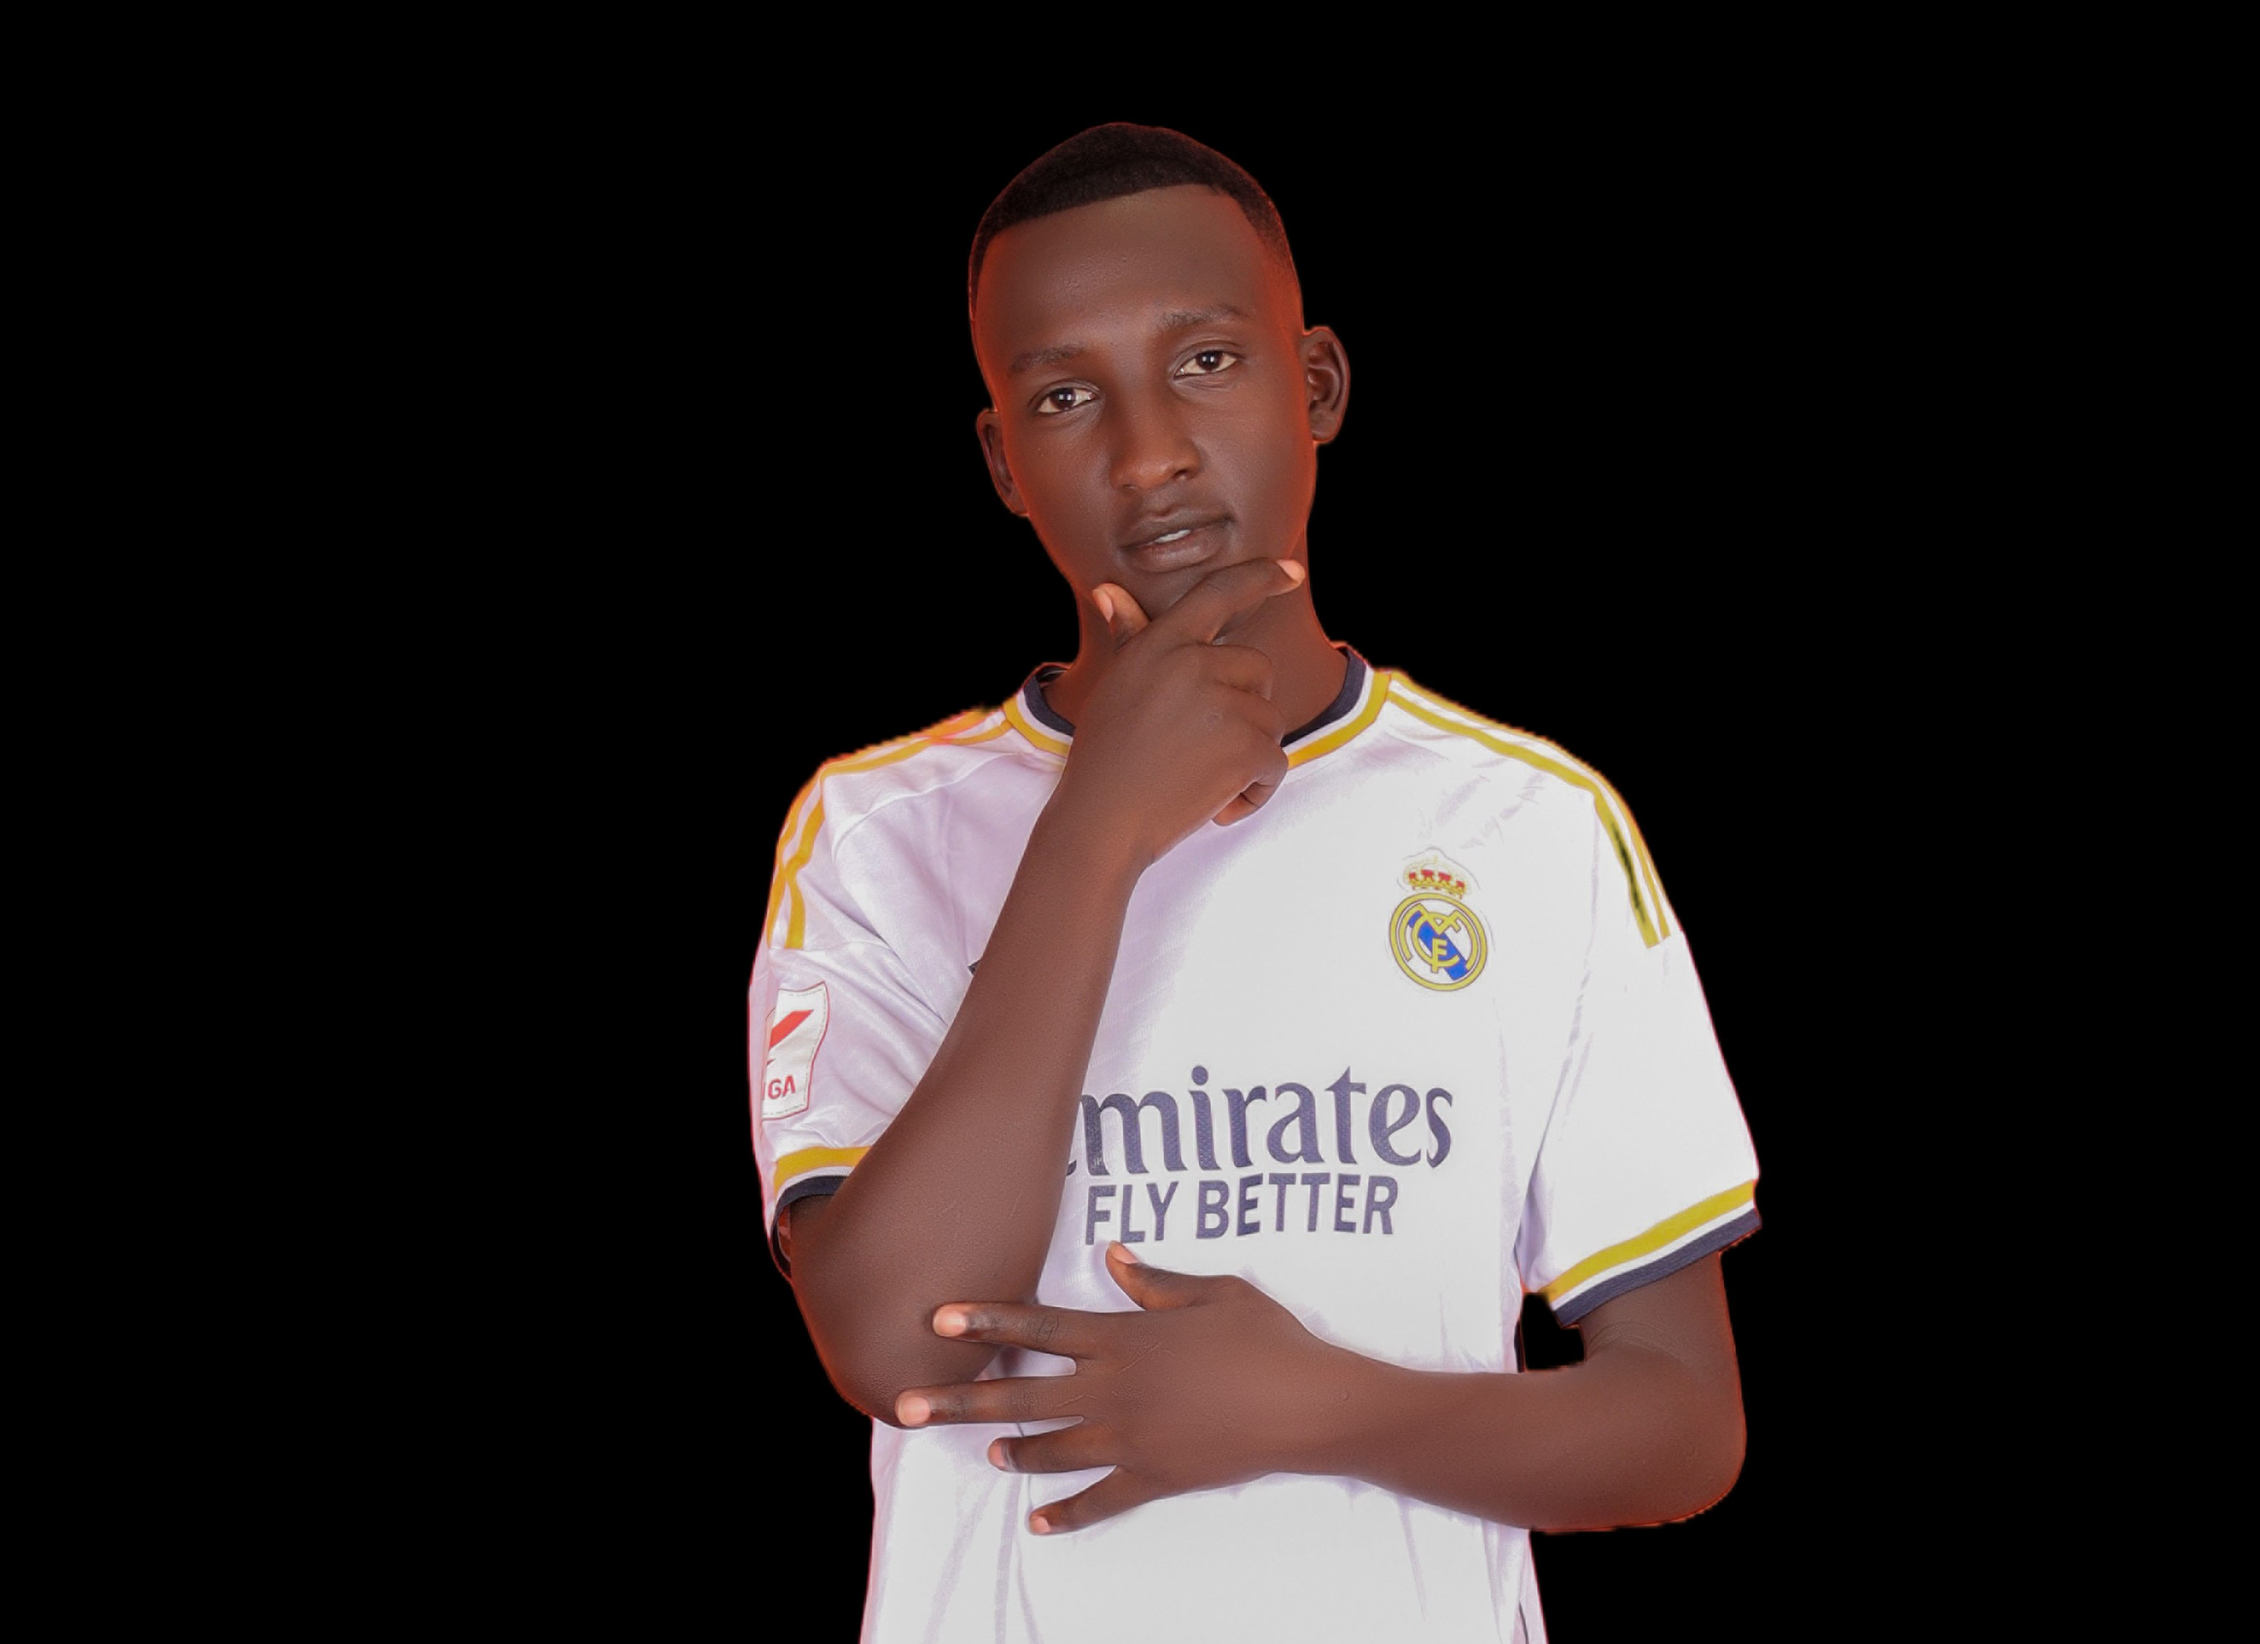
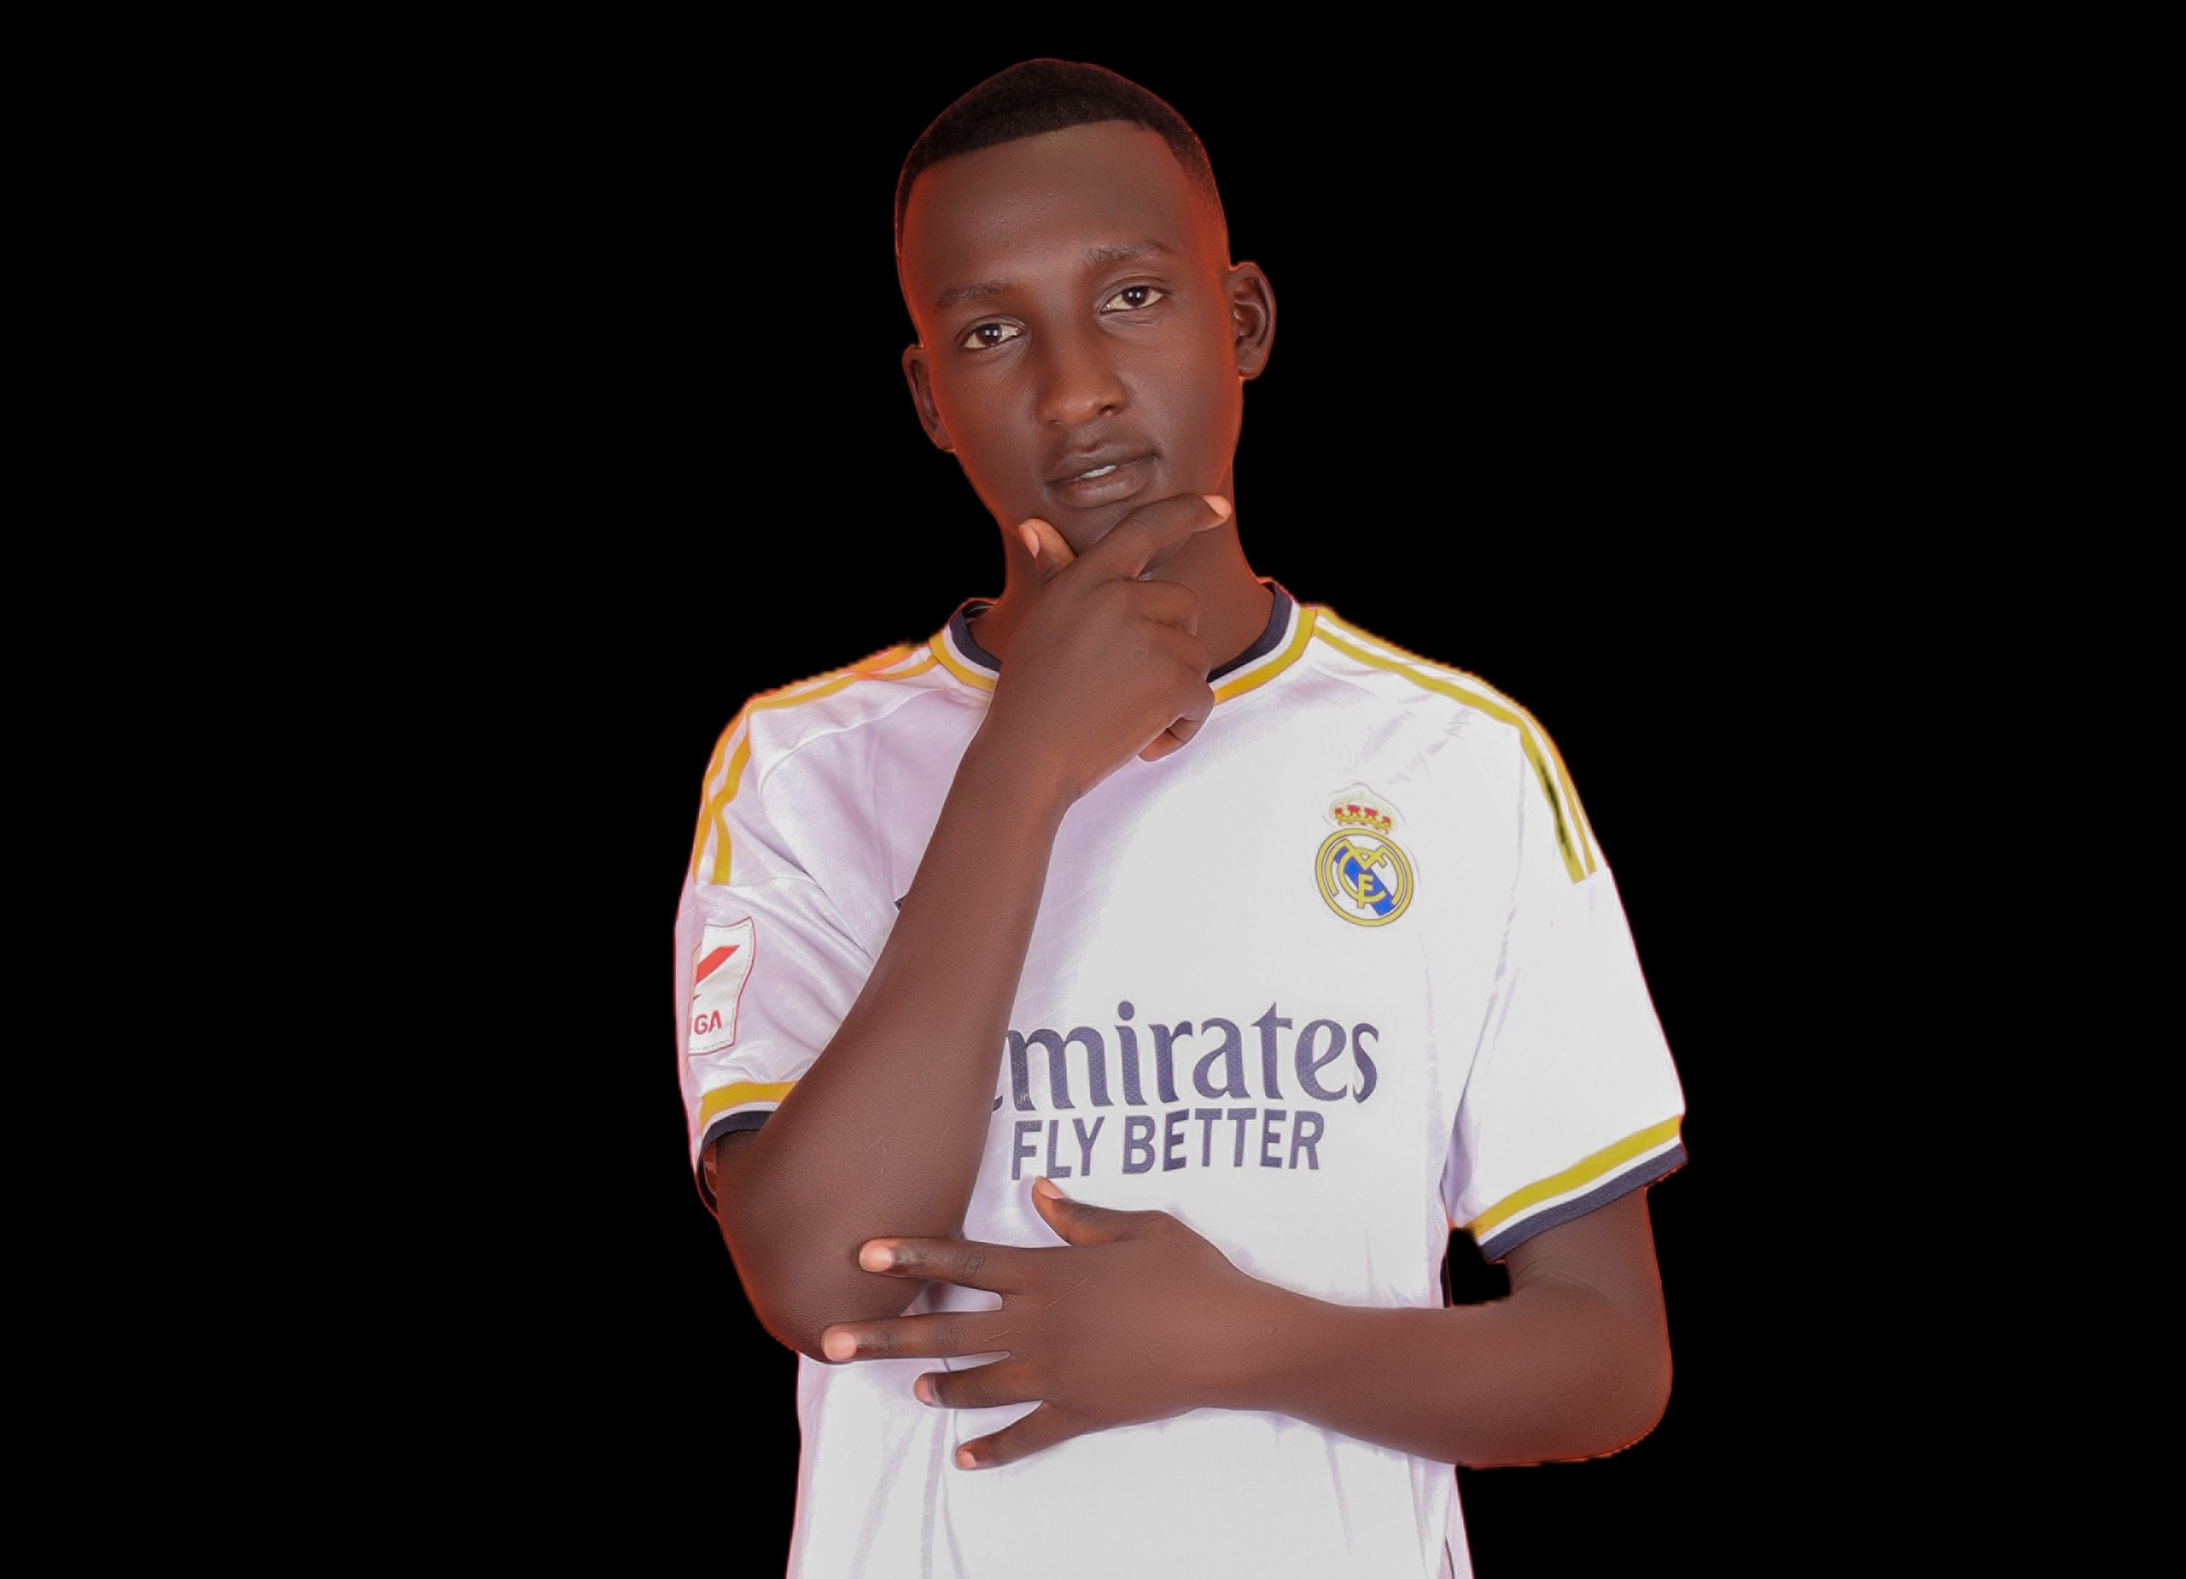
complexity

Changed region(s): [[0.3102, 0.0309, 0.7755, 1.0], [0.5894, 0.4949, 0.6825, 0.6187], [0.6514, 0.928, 0.7135, 1.0]]

diff --git a/index.html b/index.html
@@ -31,13 +31,13 @@
             <li><a href="#">About me</a></li>
           </ul>
         </div>
-
-       
       </div>
       <div id="headers">
         <div id="header">I`M <span class="span"></span></div>
 
-        <img src="pic\img.jpeg" alt="" width="400px" />
+        <div class="image">
+          <img src="pic\img.jpeg" alt="" height="100px" width="100px" />
+        </div>
       </div>
     </section>
 

diff --git a/style.css b/style.css
@@ -43,7 +43,11 @@ body {
   /* background-color: black; */
   display: grid;
   grid-template-columns: repeat(auto-fit, minmax(10rem, 1fr));
-  
+
+}
+#headers img{
+    width: 80%;
+    height: 80%;
 }
 
 .header {
